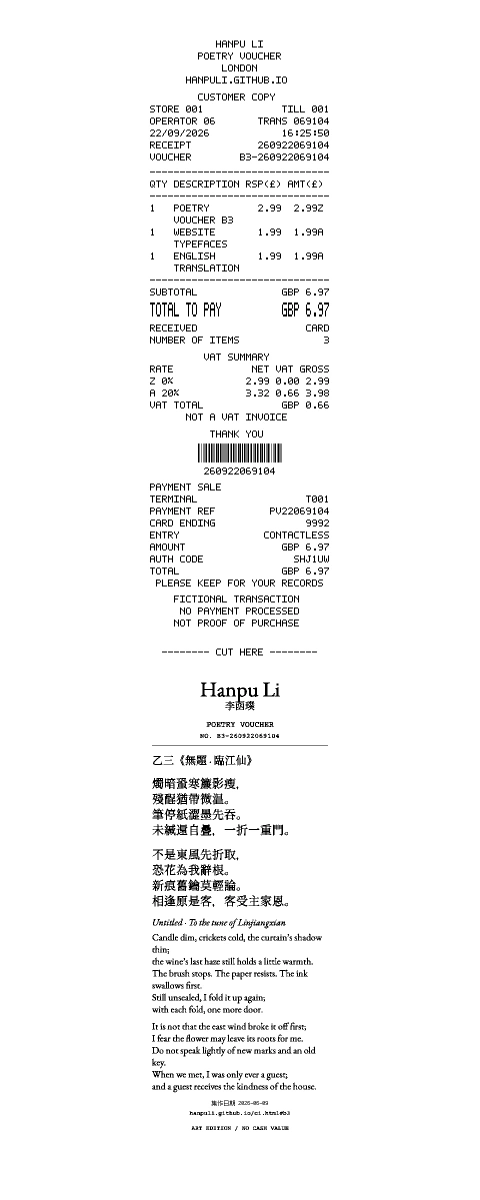
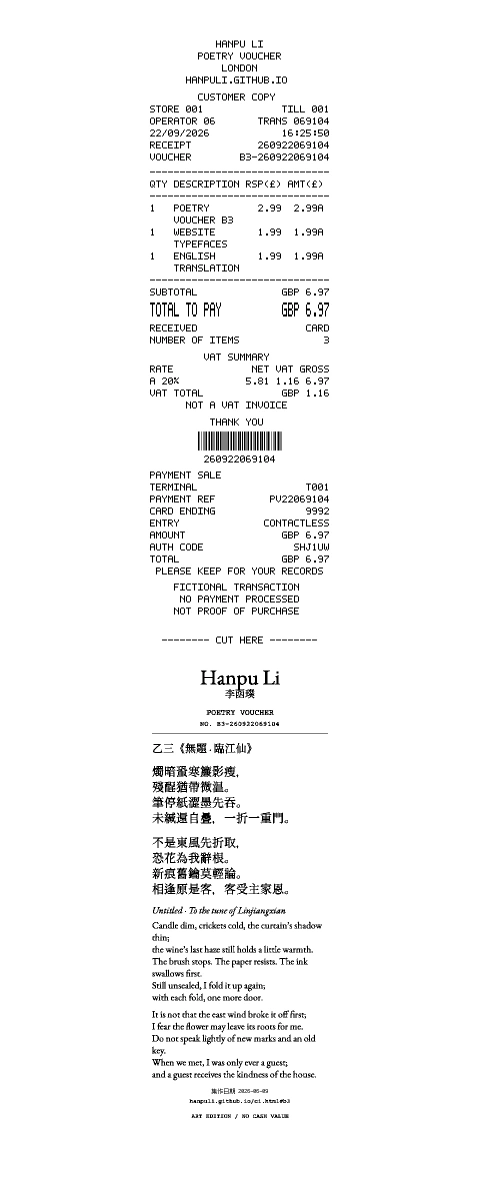
Correct illustrative VAT in Poetry Voucher receipt

Changed region(s): [[0.3125, 0.3083, 0.6875, 0.9558]]

diff --git a/content/poetry-voucher-app/gallery.js b/content/poetry-voucher-app/gallery.js
@@ -82,7 +82,7 @@ const TAX_CODES=Object.freeze({
   A:Object.freeze({code:'A',rate:20})
 });
 const SKU_DEFINITIONS=Object.freeze({
-  poem:Object.freeze({id:'poem',label:'詩券',receipt:'POETRY VOUCHER',taxCode:TAX_CODES.Z.code,taxRate:TAX_CODES.Z.rate}),
+  poem:Object.freeze({id:'poem',label:'詩券',receipt:'POETRY VOUCHER',taxCode:TAX_CODES.A.code,taxRate:TAX_CODES.A.rate}),
   font:Object.freeze({id:'font',label:'網站字體版本',receipt:'WEBSITE TYPEFACES',taxCode:TAX_CODES.A.code,taxRate:TAX_CODES.A.rate}),
   translation:Object.freeze({id:'translation',label:'附加英譯',receipt:'ENGLISH TRANSLATION',taxCode:TAX_CODES.A.code,taxRate:TAX_CODES.A.rate}),
   custom:Object.freeze({id:'custom',label:'自選內容',receipt:'CUSTOM TEXT',taxCode:TAX_CODES.A.code,taxRate:TAX_CODES.A.rate})

diff --git a/poetry-voucher/gallery.js b/poetry-voucher/gallery.js
@@ -82,7 +82,7 @@ const TAX_CODES=Object.freeze({
   A:Object.freeze({code:'A',rate:20})
 });
 const SKU_DEFINITIONS=Object.freeze({
-  poem:Object.freeze({id:'poem',label:'詩券',receipt:'POETRY VOUCHER',taxCode:TAX_CODES.Z.code,taxRate:TAX_CODES.Z.rate}),
+  poem:Object.freeze({id:'poem',label:'詩券',receipt:'POETRY VOUCHER',taxCode:TAX_CODES.A.code,taxRate:TAX_CODES.A.rate}),
   font:Object.freeze({id:'font',label:'網站字體版本',receipt:'WEBSITE TYPEFACES',taxCode:TAX_CODES.A.code,taxRate:TAX_CODES.A.rate}),
   translation:Object.freeze({id:'translation',label:'附加英譯',receipt:'ENGLISH TRANSLATION',taxCode:TAX_CODES.A.code,taxRate:TAX_CODES.A.rate}),
   custom:Object.freeze({id:'custom',label:'自選內容',receipt:'CUSTOM TEXT',taxCode:TAX_CODES.A.code,taxRate:TAX_CODES.A.rate})

diff --git a/content/README.md b/content/README.md
@@ -113,6 +113,8 @@ uses a plausible UK POS information hierarchy (store/till/transaction fields,
 item tax codes, subtotal/total, VAT analysis and cash/card detail), but every
 transaction and tax classification is fictional display data: the receipt says
 that no payment was processed, is not proof of purchase and is not a VAT invoice.
+The specimen models every displayed SKU at an illustrative 20% VAT-inclusive
+rate; this is not a determination of the VAT treatment of an actual supply.
 Public store, till and terminal values are stable display aliases, not hardware
 or merchant identifiers. Operator number, fictional card ending, entry mode and
 authorization code are derived deterministically from the local receipt reference;
